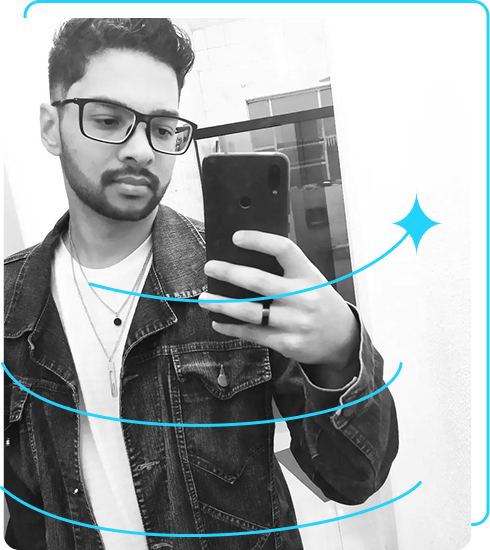
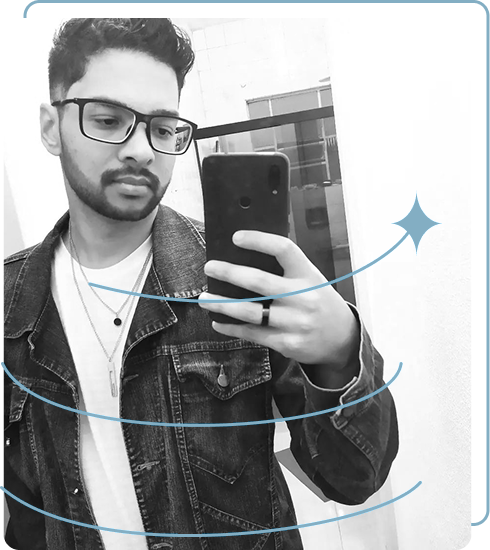
05. Aplicando variáveis CSS

diff --git a/portfolio/styles/style.css b/portfolio/styles/style.css
@@ -1,5 +1,15 @@
 @import url('https://fonts.googleapis.com/css2?family=Krona+One&family=Montserrat:wght@100..900&display=swap');
 
+:root {
+    --cor-primaria: #3D3C42;
+    --cor-secundaria: #FEFBF6;
+    --cor-terciaria: #A6D1E6;
+    --cor-hover: #7F5283;
+
+    --fonte-primaria: "Krona One", sans-serif;
+    --fonte-secundaria: "Montserrat", serif;
+}
+
 * {
     margin: 0;
     padding: 0;
@@ -7,8 +17,8 @@
 
 body {    
     box-sizing: border-box;
-    background-color: #000;
-    color: #f6f6f6;
+    background-color: var(--cor-primaria);
+    color: var(--cor-secundaria);
 }
 
 .cabecalho {
@@ -21,15 +31,11 @@ body {
 }
 
 .cabecalho__menu__link {
-    font-family: "Monteserrat", sans-serif;
+    font-family: var(--fonte-secundaria);
     font-size: 24px;
     font-weight: 600;
-    color: #22d4fd;   
+    color: var(--cor-terciaria);   
     text-decoration: none;
-}
-
-.cabecalho__menu__link:hover {
-    color: #007bff;
 }
 
 .apresentacao {
@@ -48,20 +54,20 @@ body {
 
 .apresentacao__conteudo__titulo {
     font-size: 36px;
-    font-family: "Krona One", sans-serif;
+    font-family: var(--fonte-primaria);
 }
 
 .titulo-destaque {
-    color: #22d4fd;
+    color: var(--cor-terciaria);
 }
 
 .apresentacao__conteudo__texto {
     font-size: 24px;
-    font-family: "Montserrat", sans-serif;
+    font-family: var(--fonte-secundaria);
 }
 
 .apresentacao__conteudo__texto a {
-    color: #22d4fd;
+    color: var(--cor-terciaria);
     text-decoration: none;
 }
 
@@ -78,7 +84,7 @@ body {
 }
 
 .apresentacao__conteudo__links__subtitulo {
-    font-family: "Krona One", sans-serif;
+    font-family: var(--fonte-primaria);
     font-weight: 400;
     font-size: 24px;
 }
@@ -88,27 +94,27 @@ body {
     justify-content: center;
     gap: 16px;
     align-items: center;
-    border: 2px solid #22d4fd;
+    border: 2px solid var(--cor-terciaria);
     width: 378px;
     text-align: center;
     border-radius: 8px;
     padding: 21.5px 0;
     text-decoration: none;
-    color: #f6f6f6;
-    font-family: "Montserrat", sans-serif;
+    color: var(--cor-secundaria);
+    font-family: var(--fonte-secundaria);
     font-weight: 600;
 }
 
 .apresentacao__conteudo__links__link:hover {
-    background-color: #272727;   
+    background-color: var(--cor-hover);   
 }
 
 .rodape {
-    color: #000;
-    background-color: #22d4fd;
+    color: var(--cor-primaria);
+    background-color: var(--cor-terciaria);
     padding: 24px;
     text-align: center;
-    font-family: "Montserrat", sans-serif;
+    font-family: var(--fonte-secundaria);
     font-size: 24px;
     font-weight: 400;
 }

diff --git a/portfolio/about.html b/portfolio/about.html
@@ -14,7 +14,14 @@
             <a href="resume.html" class="cabecalho__menu__link">Currículo</a>
         </nav>
     </header>
-    <main></main>
+    <main class="apresentacao">
+        <section class="apresentacao__conteudo">
+            <h1 class="apresentacao__conteudo__titulo">Sobre mim</h1>
+            <p class="apresentacao__conteudo__texto">At vero eos et accusamus et iusto odio dignissimos ducimus qui blanditiis praesentium voluptatum deleniti atque corrupti quos dolores et quas molestias excepturi sint occaecati cupiditate non provident, similique sunt in culpa qui officia deserunt mollitia animi, id est laborum et dolorum fuga.</p>
+            <p class="apresentacao__conteudo__texto">Et harum quidem rerum facilis est et expedita distinctio. Nam libero tempore, cum soluta nobis est eligendi optio cumque nihil impedit quo minus id quod maxime placeat facere possimus, omnis voluptas assumenda est, omnis dolor repellendus. Temporibus autem quibusdam et aut officiis debitis aut rerum necessitatibus saepe eveniet ut et voluptates repudiandae sint et molestiae non recusandae. Itaque earum rerum hic tenetur a sapiente delectus, ut aut reiciendis voluptatibus maiores alias consequatur aut perferendis doloribus asperiores ipsum delis forum birol parela maxime infena. Excepteur sint occaecat cupidatat non.</p>
+        </section>
+        <img src="assets/imagem.png" alt="Foto de Raony Dias segurando um celular diante de um espelho">        
+    </main>
     <footer class="rodape">
         <p>Desenvolvido por Raony Dias.</p>
     </footer>
